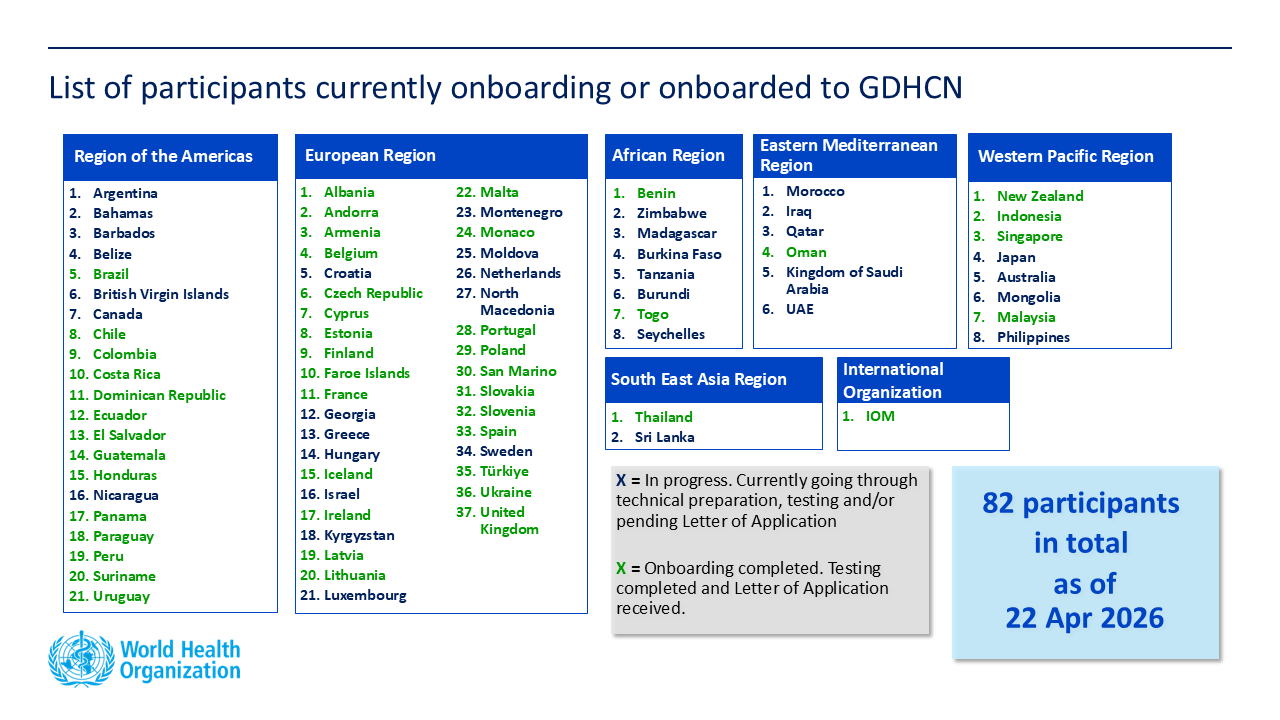
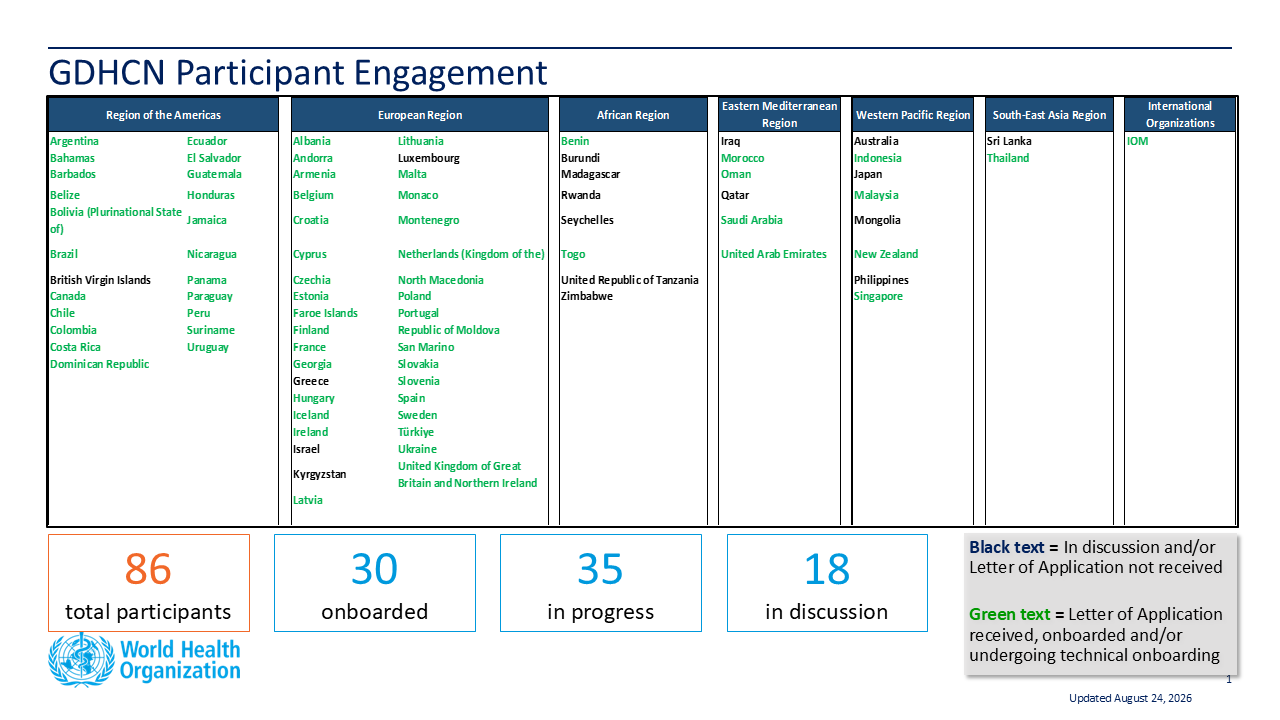
update

diff --git a/input/pagecontent/changes.md b/input/pagecontent/changes.md
@@ -61,4 +61,11 @@ This provides a list of changes to the SMART Trust IG.
   - Clarified that the HCERT CWT must include the signature for validation
   - Updated FSH model definitions for cardinality on CWT, and HCERT configuration
 
-  ### CI-Build updates
+### 2026-07-29 v1.7.0 - release
+- Nightly participant generation fixes:
+  - Fixed GitHub API rate limiting in the nightly participant generation workflow
+  - Fixed missing Participants 
+- Added MedicationOverviewMin as a new payload type in HCERT
+
+### 2026-08-27 v1.7.1 - release
+- updated GDHCN Participants onboarding status
